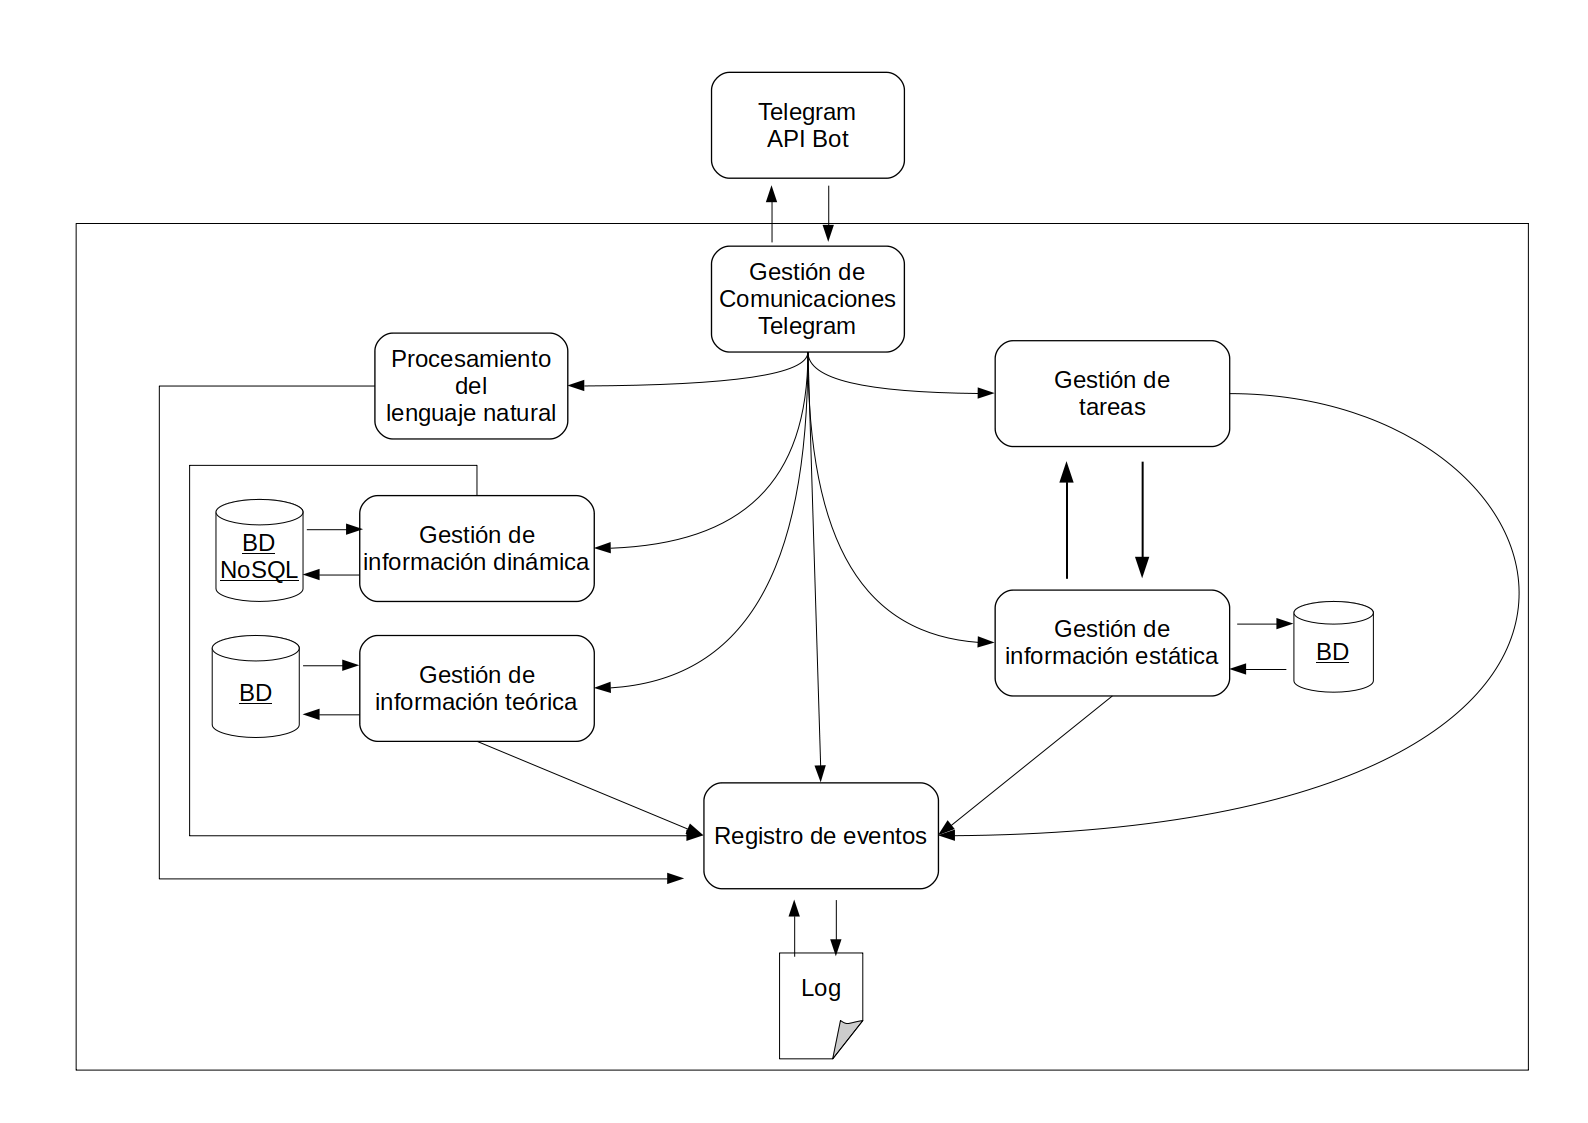
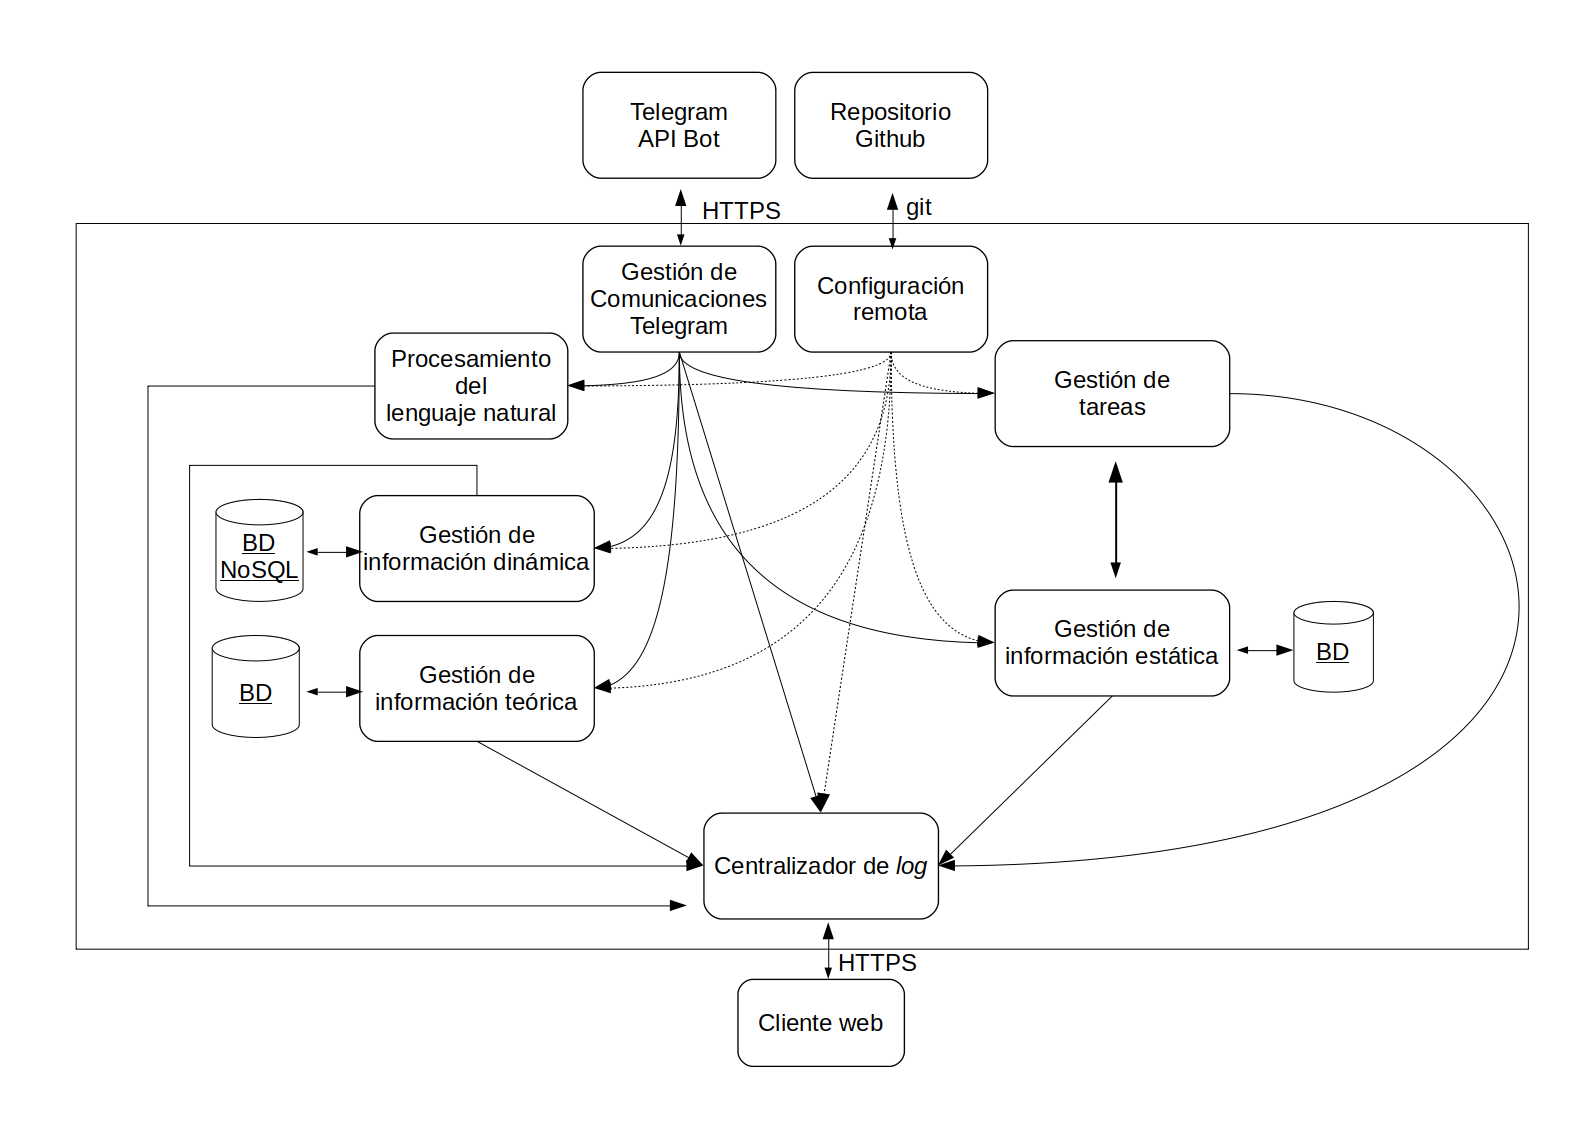
Corregida la configuración sobre la arquitectura #3

diff --git a/README.md b/README.md
@@ -30,35 +30,54 @@ Por su parte, CProfessorBot constituye un asistente conversacional, chatbot o si
 
 Se desea implementar este sistema servidor en una arquitectura basada en **microservicios** conectados entre sí. Existe cierta correspondencia entre la descomposición funcional anteriormente expuesta y los microservicios que se desarrollan a continuación.
 
+#####	Microservicios a desarrollar
+
 Se consideran los siguientes microservicios:
 
 - Gestión de comunicaciones Telegram: Implementa toda la funcionalidad del módulo de comunicación, actuando como mediador entre sistema y los usuarios de la plataforma Telegram. Hace uso de la API ![Telegram Bot Telegram](https://core.telegram.org/bots/api) para interconectar con la interfaz del bot, de la cual recoje todas las peticiones de los usuarios y a la cual emite todas las respuestas generadas por el sistema.
 
 Este microservicio se comunicará con el resto de microservicios para llevar a cabo el procesamiento de todas las peticiones recibidas.
 
-- Procesamiento del lenguaje natural: Implementa el módulo de procesamiento del lenguaje natural. Realiza diferentes tareas de procesamiento del lenguaje natural a petición del microservicio de comuncaciones y devuelve el resultado. Este microservicio actúa únicamente como servidor del resto de microservicios y únicamente se comunicará con el microservicio "Registro de eventos" para registrar información sobre su actividad en los almacenes de bitácora.
+- Procesamiento del lenguaje natural: Implementa el módulo de procesamiento del lenguaje natural. Realiza diferentes tareas de procesamiento del lenguaje natural a petición del microservicio de comuncaciones y devuelve el resultado.
 
 - Gestión de información estática: Implementa parte de la funcionalidad del módulo de gestión de la información y se ocupa de gestionar la información a almacenar por el sistema de naturaleza estática (información sobre los usuarios (alumnos y profesores) registrados, información sobre los foros docentes y de los usuarios registrados en los mismos, información sobre las asignaturas, los profesores encargados de su docencia, el alumnado matriculado en las mismas, configuración establecida etc).
 
 Este microservicio se hallará conectado a una base de datos de tipo relacional que permite modelar y gestionar información de esta naturaleza de forma más adecuada proveyendo mecanismos aprovechables para garantizar la integridad de la información y una rápida capacidad de respuesta en los procesos de recuperación de la información.
 
-Este microservicio actúa únicamente como interfaz de acceso a la base de datos para el resto de microservicios y se comunicará únicamente con el microservicio "Registro de eventos" para registrar su actividad.
-
 - Gestión de información dinámica: Se ocupa de gestionar y almacenar información de naturaleza dinámica y cambiante que es creada y desruída de forma masiva en cortos periodos de tiempo, lo que imposibilita su almacenamiento estructurado (registro de mensajes enviados o recibidos por el sistema con toda su información textual o multimedia y cualquier otra información recopilada sobre el uso del sistema por parte de sus usuarios).
 
-Este microservicio se conectará a otra base de datos que se adapte a la naturaleza de esta información. Se optará por algún tipo de base de datos NoSQL de tipo documental, de la misma forma que el anterior, este microservicio actúa únicamente como interfaz de acceso a la base de datos para el resto de microservicios, comunicándose con el microservicio "Registro de eventos" para registrar su actividad.
+Este microservicio se conectará a otra base de datos que se adapte a la naturaleza de esta información. Se optará por algún tipo de base de datos NoSQL de tipo documental.
 
 - Gestión de la información docente: Se encarga de gestionar y almacenar la información teórica empleada por el sistema para atender a las consultas teóricas del alumnado y para evaluar la temática de los mensajes recibidos por el mismo. Para este fin, deberá de implementar los mecanismos necesarios tanto para realizar búsquedas inteligentes de la información teórica almacenada, como para acceder de forma rápida a esta información, para lo que se requerirá en ambos casos que la información esté adecuadamente estructurada e indexada.
 
-Se plantea inicialmente la conexión de este microservicio con un tipo de base de datos relacional que haga un uso intenso de indexación de contenidos. Este microservicio también constituye una interfaz de acceso a esta base de información para el resto de microservicios y se comunica, igualmente, con el microservicio "Registro de eventos" para registrar su actividad.
+Se plantea inicialmente la conexión de este microservicio con un tipo de base de datos relacional que haga un uso intenso de indexación de contenidos.
 
-- Gestión de tareas del sistema: Se encargará de registrar y ordenar la ejecución de tareas programadas como resultado de alguna petición de alguno de sus usuarios (por ejemplo, envío de notificaciones programadas por el profesorado al alumnado en una fecha y hora determinadas). Para tal objetivo, deberá de gestionar una cola de tareas. Este microservicio requerirá comunicación con el microservicio "Gestión de información estática" para almacenar y recuperar toda la información que requiere, además de comunicación con el microservicio "Registro de eventos" para registrar toda su actividad en los registros de bitácora.
+- Gestión de tareas del sistema: Se encargará de registrar y ordenar la ejecución de tareas programadas como resultado de alguna petición de alguno de sus usuarios (por ejemplo, envío de notificaciones programadas por el profesorado al alumnado en una fecha y hora determinadas), para tal objetivo, deberá de gestionar una cola de tareas. Este microservicio requerirá comunicación con el microservicio "Gestión de información estática" para almacenar y recuperar toda la información que requiere.
 
-- Registro de eventos: Se ocupa de registrar todos los eventos y acciones llevadas a cabo como consecuencia del funcionamiento del sistema en un almacén *log*, este microservicio recibirá mensajes provenientes de todos los microservicios con información de los eventos y acciones desarrolladas. Este microservicio consituye el único microservicio que no actúa de cliente de ningún otro microservicio para desarrollar su funcionalidad.
+- Configuración remota: Se ocupará de recoger la configuración establecida en un repositorio de GitHub y aplicar dicha configuración sobre el resto de microservicios.
 
-En el siguiente diagrama, se representa esta arquitectura de microservicios.
+- Centralizador de *log*: Se ocupa de centralizar el registro de los eventos y acciones llevadas a cabo como consecuencia del funcionamiento del sistema y permitir la consulta de esta información por medio de un servicio web.
+
+En el siguiente diagrama, se representa esta arquitectura de microservicios. Se ha de aclarar que la comunicación entre los microservicios se efectúa mediante el protocolo *AMQP*.
 
 ![Arquitectura del sistema C-ProfessorBot](docs/imgs/arquitectura-CC-CProfessorBot.png)
+
+#####	Tecnologías usadas
+
+Se plantea usar el lenguaje Python en la implementación de todos los microservicios haciendo uso del *framework* Flask.
+
+Python constituye una buena opción al existir numerosas herramientas y tecnologías muy aprovechables para la construcción y depliegue de microservicios y también porque facilitaría la reutilización de los módulos software implementados en el sistema original que también se hallan implementados en Python.
+
+Se optaría por el uso de comunicación asíncrona entre los microservicios mediante el paso mensajes usando el protocolo AMQP, lo cual permitiría una comunicación rápida entre los microservicios. Para este, fin RabbitMQ constituye una herramienta muy aprovechable para la implementación de los *brokers* de cada servicio.
+
+Cada microservicio implementará una cola de mensajes propias haciendo uso *Celery*.
+
+Para las bases de datos relacionales, se plantea la construcción de una base de datos basada en SQL, haciendo uso de MySQL, mientras que para la base de datos documental, se plantea el uso de MongoDB.
+
+Para implementar una integración continua, se plantea usar la herramienta *Jenkins* para automatizar el despliegue de las modificaciones de código llevadas a cabo. Se plantea también el uso de esta herramienta para automatizar los procesos de pruebas antes de su despliegue.
+
+Por último, para la implementación del microservicio "Centralizador de *log*,"  se plantea el uso de la herramienta *graylog*, mientras que para habilitar configuración remota, se plantea el uso de *Spring Boot Config*, constituyendo este el único microservicio que hace uso de una tecnología de Java.
+
 
 #### Documentación web del proyecto
 
